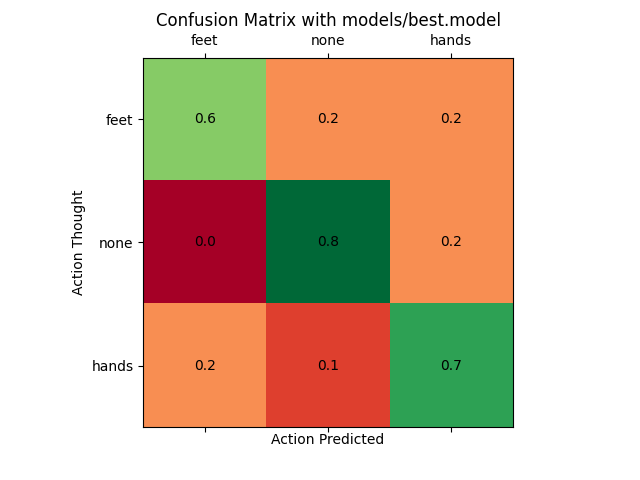
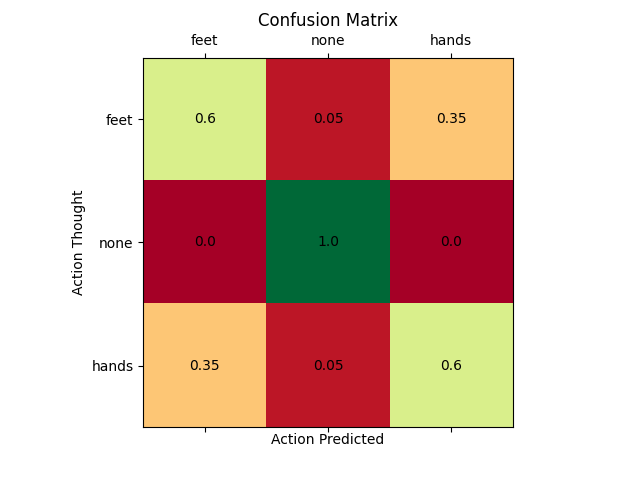
Added EEGNet

diff --git a/neural_nets.py b/neural_nets.py
@@ -1,6 +1,6 @@
 from keras.layers import Dense, Dropout, Activation, Flatten, Input, DepthwiseConv2D
-from keras.layers import Conv2D, BatchNormalization, MaxPooling2D, MaxPool2D,\
-    Lambda, AveragePooling2D, TimeDistributed, ConvLSTM2D, Reshape
+from keras.layers import Conv2D, BatchNormalization, MaxPooling2D, MaxPool2D, \
+    Lambda, AveragePooling2D, TimeDistributed, ConvLSTM2D, Reshape, SpatialDropout2D, SeparableConv2D
 from keras import regularizers, Model
 from keras.constraints import max_norm
 from keras.models import Sequential
@@ -131,3 +131,102 @@ def TA_CSPNN(nb_classes, Channels=8, Timesamples=250,
     model.add(Dense(nb_classes, activation="softmax"))
 
     return model
+
+
+def EEGNet(nb_classes, Chans=8, Samples=250,
+           dropoutRate=0.5, kernLength=125, F1=8,
+           D=2, F2=16, norm_rate=0.25, dropoutType='Dropout'):
+    """ Keras Implementation of EEGNet
+    http://iopscience.iop.org/article/10.1088/1741-2552/aace8c/meta
+    Note that this implements the newest version of EEGNet and NOT the earlier
+    version (version v1 and v2 on arxiv). We strongly recommend using this
+    architecture as it performs much better and has nicer properties than
+    our earlier version. For example:
+
+        1. Depthwise Convolutions to learn spatial filters within a
+        temporal convolution. The use of the depth_multiplier option maps
+        exactly to the number of spatial filters learned within a temporal
+        filter. This matches the setup of algorithms like FBCSP which learn
+        spatial filters within each filter in a filter-bank. This also limits
+        the number of free parameters to fit when compared to a fully-connected
+        convolution.
+
+        2. Separable Convolutions to learn how to optimally combine spatial
+        filters across temporal bands. Separable Convolutions are Depthwise
+        Convolutions followed by (1x1) Pointwise Convolutions.
+
+
+    While the original paper used Dropout, we found that SpatialDropout2D
+    sometimes produced slightly better results for classification of ERP
+    signals. However, SpatialDropout2D significantly reduced performance
+    on the Oscillatory dataset (SMR, BCI-IV Dataset 2A). We recommend using
+    the default Dropout in most cases.
+
+    Assumes the input signal is sampled at 128Hz. If you want to use this model
+    for any other sampling rate you will need to modify the lengths of temporal
+    kernels and average pooling size in blocks 1 and 2 as needed (double the
+    kernel lengths for double the sampling rate, etc). Note that we haven't
+    tested the model performance with this rule so this may not work well.
+
+    The model with default parameters gives the EEGNet-8,2 model as discussed
+    in the paper. This model should do pretty well in general, although it is
+	advised to do some model searching to get optimal performance on your
+	particular dataset.
+    We set F2 = F1 * D (number of input filters = number of output filters) for
+    the SeparableConv2D layer. We haven't extensively tested other values of this
+    parameter (say, F2 < F1 * D for compressed learning, and F2 > F1 * D for
+    overcomplete). We believe the main parameters to focus on are F1 and D.
+    Inputs:
+
+      nb_classes      : int, number of classes to classify
+      Chans, Samples  : number of channels and time points in the EEG data
+      dropoutRate     : dropout fraction
+      kernLength      : length of temporal convolution in first layer. We found
+                        that setting this to be half the sampling rate worked
+                        well in practice. For the SMR dataset in particular
+                        since the data was high-passed at 4Hz we used a kernel
+                        length of 32.
+      F1, F2          : number of temporal filters (F1) and number of pointwise
+                        filters (F2) to learn. Default: F1 = 8, F2 = F1 * D.
+      D               : number of spatial filters to learn within each temporal
+                        convolution. Default: D = 2
+      dropoutType     : Either SpatialDropout2D or Dropout, passed as a string.
+    """
+
+    if dropoutType == 'SpatialDropout2D':
+        dropoutType = SpatialDropout2D
+    elif dropoutType == 'Dropout':
+        dropoutType = Dropout
+    else:
+        raise ValueError('dropoutType must be one of SpatialDropout2D '
+                         'or Dropout, passed as a string.')
+
+    input1 = Input(shape=(Chans, Samples, 1))
+
+    ##################################################################
+    block1 = Conv2D(F1, (1, kernLength), padding='same',
+                    input_shape=(1, Chans, Samples),
+                    use_bias=False)(input1)
+    block1 = BatchNormalization(axis=1)(block1)
+    block1 = DepthwiseConv2D((Chans, 1), use_bias=False,
+                             depth_multiplier=D,
+                             depthwise_constraint=max_norm(1.))(block1)
+    block1 = BatchNormalization(axis=1)(block1)
+    block1 = Activation('elu')(block1)
+    block1 = AveragePooling2D((1, 4))(block1)
+    block1 = dropoutType(dropoutRate)(block1)
+
+    block2 = SeparableConv2D(F2, (1, 16),
+                             use_bias=False, padding='same')(block1)
+    block2 = BatchNormalization(axis=1)(block2)
+    block2 = Activation('elu')(block2)
+    block2 = AveragePooling2D((1, 8))(block2)
+    block2 = dropoutType(dropoutRate)(block2)
+
+    flatten = Flatten(name='flatten')(block2)
+
+    dense = Dense(nb_classes, name='dense',
+                  kernel_constraint=max_norm(norm_rate))(flatten)
+    softmax = Activation('softmax', name='softmax')(dense)
+
+    return Model(inputs=input1, outputs=softmax)

diff --git a/dataset_tools.py b/dataset_tools.py
@@ -7,10 +7,11 @@ from colors import red, green
 import numpy as np
 import os
 
-ACTIONS = ["feet", "hands"]
+ACTIONS = ["feet", "none", "hands"]
 
 
-def split_data(starting_dir="personal_dataset", splitting_percentage=(75, 25, 0), shuffle=True, coupling=False, division_factor=0):
+def split_data(starting_dir="personal_dataset", splitting_percentage=(70, 20, 10), shuffle=True, coupling=False,
+               division_factor=0):
     """
         This function splits the dataset in three folders, training, validation, untouched
         Has to be run just everytime the dataset is changed
@@ -241,14 +242,14 @@ def preprocess_raw_eeg(data, fs=250, lowcut=2.0, highcut=65.0, MAX_FREQ=60, powe
     :return: tuple, (ndarray, ndarray), process personal_dataset and FFTs respectively
     """
     # print(personal_dataset.shape)
-    # visualize_data(personal_dataset,
+    # visualize_data(data,
     #               file_name="pictures/before",
     #               title="RAW EEGs",
     #               length=len(personal_dataset[0, 0]))
 
     data = standardize(data)
 
-    # visualize_data(personal_dataset,
+    # visualize_data(data,
     #               file_name="pictures/after_std",
     #               title="After Standardization",
     #               length=len(personal_dataset[0, 0]))
@@ -260,13 +261,14 @@ def preprocess_raw_eeg(data, fs=250, lowcut=2.0, highcut=65.0, MAX_FREQ=60, powe
             DataFilter.perform_bandstop(data[sample][channel], 250, power_hz, 2.0, 5, FilterTypes.BUTTERWORTH.value, 0)
             data[sample][channel] = butter_bandpass_filter(data[sample][channel], 2, 120, fs, order=5)
 
-            # DataFilter.perform_bandstop(personal_dataset[sample][channel], 250, 10.0, 1.0, 6, FilterTypes.BUTTERWORTH.value, 0)
-            # DataFilter.perform_wavelet_denoising(personal_dataset[sample][channel], 'coif3', coi3order)
+            # DataFilter.perform_bandstop(data[sample][channel], 250, 10.0, 1.0, 6, FilterTypes.BUTTERWORTH.value, 0)
+            if coi3order != 0:
+                DataFilter.perform_wavelet_denoising(data[sample][channel], 'coif3', coi3order)
 
             data[sample][channel] = butter_bandpass_filter(data[sample][channel], lowcut, highcut, fs, order=5)
 
-            # DataFilter.perform_wavelet_denoising(personal_dataset[sample][channel], 'db6', 3)
-            # DataFilter.perform_rolling_filter(personal_dataset[sample][channel], 3, AggOperations.MEAN.value)
+            # DataFilter.perform_wavelet_denoising(data[sample][channel], 'db6', 3)
+            # DataFilter.perform_rolling_filter(data[sample][channel], 3, AggOperations.MEAN.value)
 
             fft_data[sample][channel] = np.abs(fft(data[sample][channel])[:MAX_FREQ])
 

diff --git a/training.py b/training.py
@@ -8,7 +8,7 @@
 # https://github.com/spolsley/common-spatial-patterns
 
 from dataset_tools import split_data, standardize, load_data, preprocess_raw_eeg, ACTIONS
-from neural_nets import cris_net, res_net, TA_CSPNN
+from neural_nets import cris_net, res_net, TA_CSPNN, EEGNet
 
 from sklearn.model_selection import KFold, cross_val_score
 from matplotlib import pyplot as plt
@@ -40,7 +40,7 @@ def fit_and_save(model, epochs, train_X, train_y, validation_X, validation_y, ba
 
         MODEL_NAME = f"models/{round(score * 100, 2)}-{epoch}epoch-{int(time.time())}-loss-{round(val_loss, 2)}.model"
 
-        if round(score * 100, 2) >= 84 and round(history.history["accuracy"][-1] * 100, 2) >= 85:
+        if 77 <= round(score * 100, 2) <= 80 and round(history.history["accuracy"][-1] * 100, 2) >= 78:
             # saving & plotting only relevant models
             model.save(MODEL_NAME)
             print("saved: ", MODEL_NAME)
@@ -154,10 +154,10 @@ def main():
     tmp_validation_X, validation_y = load_data(starting_dir="validation_data", shuffle=True, balance=True)
 
     # cleaning the raw personal_dataset
-    train_X, fft_train_X = preprocess_raw_eeg(tmp_train_X, lowcut=12, highcut=35, coi3order=1)
-    validation_X, fft_validation_X = preprocess_raw_eeg(tmp_validation_X, lowcut=12, highcut=35, coi3order=1)
+    train_X, fft_train_X = preprocess_raw_eeg(tmp_train_X, lowcut=7, highcut=45, coi3order=0)
+    validation_X, fft_validation_X = preprocess_raw_eeg(tmp_validation_X, lowcut=7, highcut=45, coi3order=0)
 
-    check_other_classifiers(train_X, train_y, validation_X, validation_y)
+    # check_other_classifiers(train_X, train_y, validation_X, validation_y)
 
     # reshaping
     train_X = train_X.reshape((len(train_X), len(train_X[0]), len(train_X[0, 0]), 1))
@@ -178,8 +178,10 @@ def main():
 
     print("train_X shape: ", train_X.shape)
 
-    model = TA_CSPNN(nb_classes=len(ACTIONS), Timesamples=250, Channels=len(train_X[0]),
-                     timeKernelLen=50, dropOut=0.25, Ft=11, Fs=6)
+    # model = TA_CSPNN(nb_classes=len(ACTIONS), Timesamples=250, Channels=len(train_X[0]),
+    #                timeKernelLen=50, dropOut=0.3, Ft=11, Fs=6)
+
+    model = EEGNet(nb_classes=len(ACTIONS))
     # model = cris_net((len(fft_train_X[0]), len(fft_train_X[0, 0]), 1))
     model.summary()
     model.compile(loss='categorical_crossentropy',

diff --git a/check_model.py b/check_model.py
@@ -62,10 +62,10 @@ def evaluate_model(untouched_X, untouched_y, model_path):
 if __name__ == "__main__":
     tmp_untouched_X, untouched_y = load_data(starting_dir="untouched_data")
 
-    untouched_X, fft_untouched_X = preprocess_raw_eeg(tmp_untouched_X, lowcut=12, highcut=35, coi3order=1)
+    untouched_X, fft_untouched_X = preprocess_raw_eeg(tmp_untouched_X, lowcut=7, highcut=45, coi3order=0)
     untouched_X = untouched_X.reshape((len(untouched_X), len(untouched_X[0]), len(untouched_X[0, 0]), 1))
 
-    score = evaluate_model(untouched_X, untouched_y, 'models/85.0-473epoch-1601802855-loss-0.44.model')
+    score = evaluate_model(untouched_X, untouched_y, 'models/80.0-167epoch-1601812894-loss-0.47.model')
     print("Accuracy on Untouched Data: ", score[1])
 
     # models/77.33-184epoch-1601636305-loss-0.56.model
@@ -78,3 +78,6 @@ if __name__ == "__main__":
 
     # another good models/81.25-254epoch-1601756450-loss-0.42.model
     # models/85.42-281epoch-1601757813-loss-0.41.model'
+
+    # best out of the very best
+    #models/80.0-167epoch-1601812894-loss-0.47.model no coif
